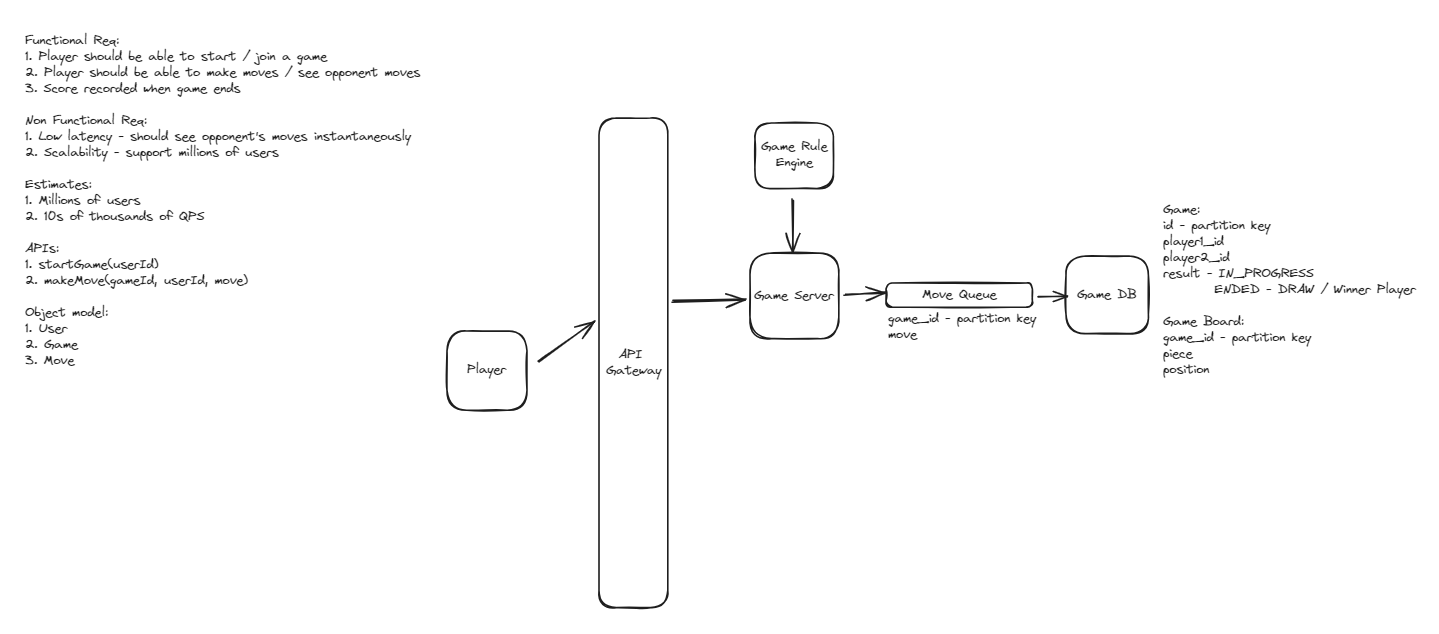
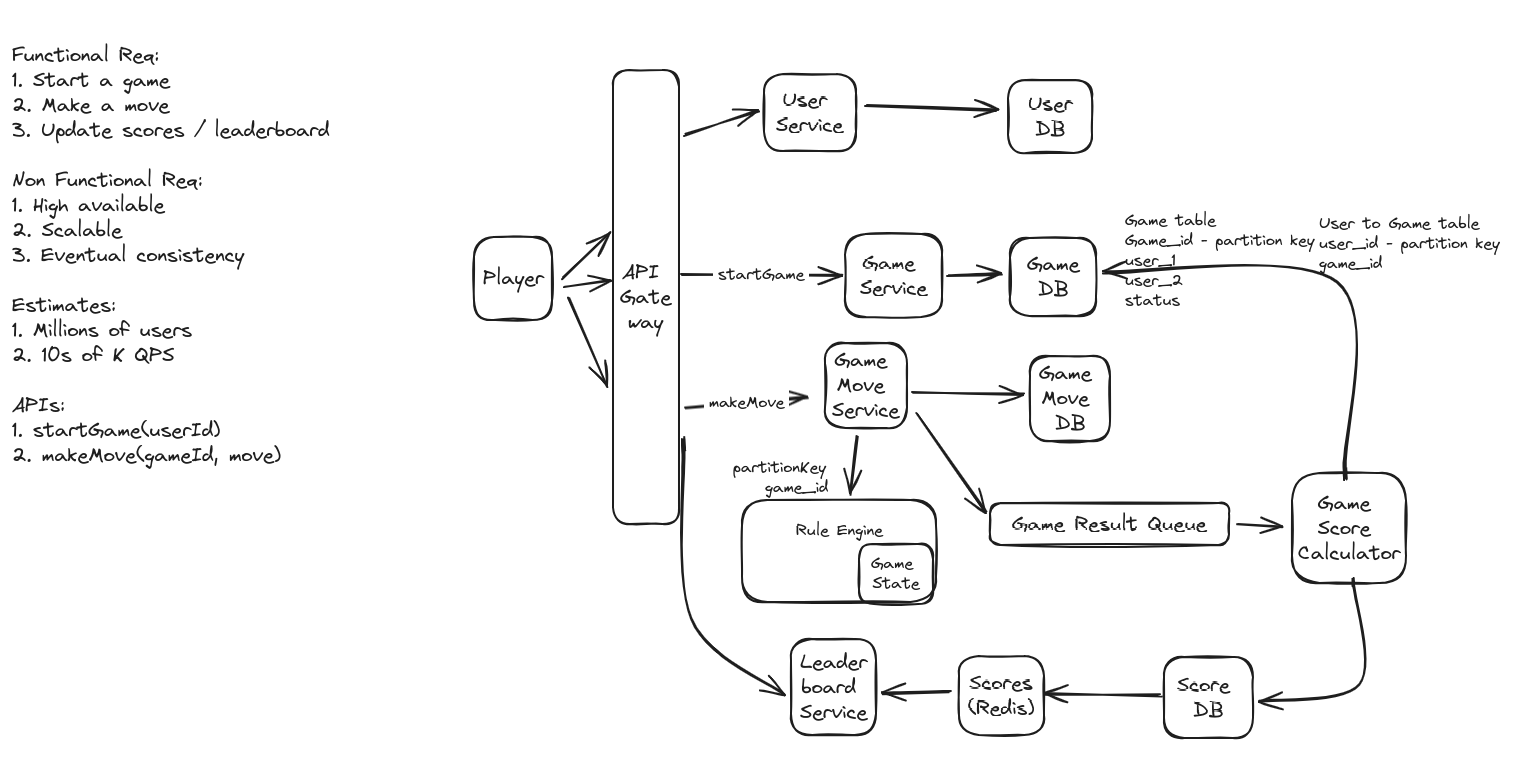
added Chess

diff --git a/System Design Questions/Chess.md b/System Design Questions/Chess.md
@@ -33,6 +33,9 @@
 
 
 ### Deep Dive Topics
+1. Scatter gather in game db if i want to lookup all games for a user, avoid it by having user to game mapping 
+2. Game move service is partitioned by game id
+3. Scores in REDIS if i may want rank of any particular user, if only top k ranks, then use a heap
 
 
 ### References
